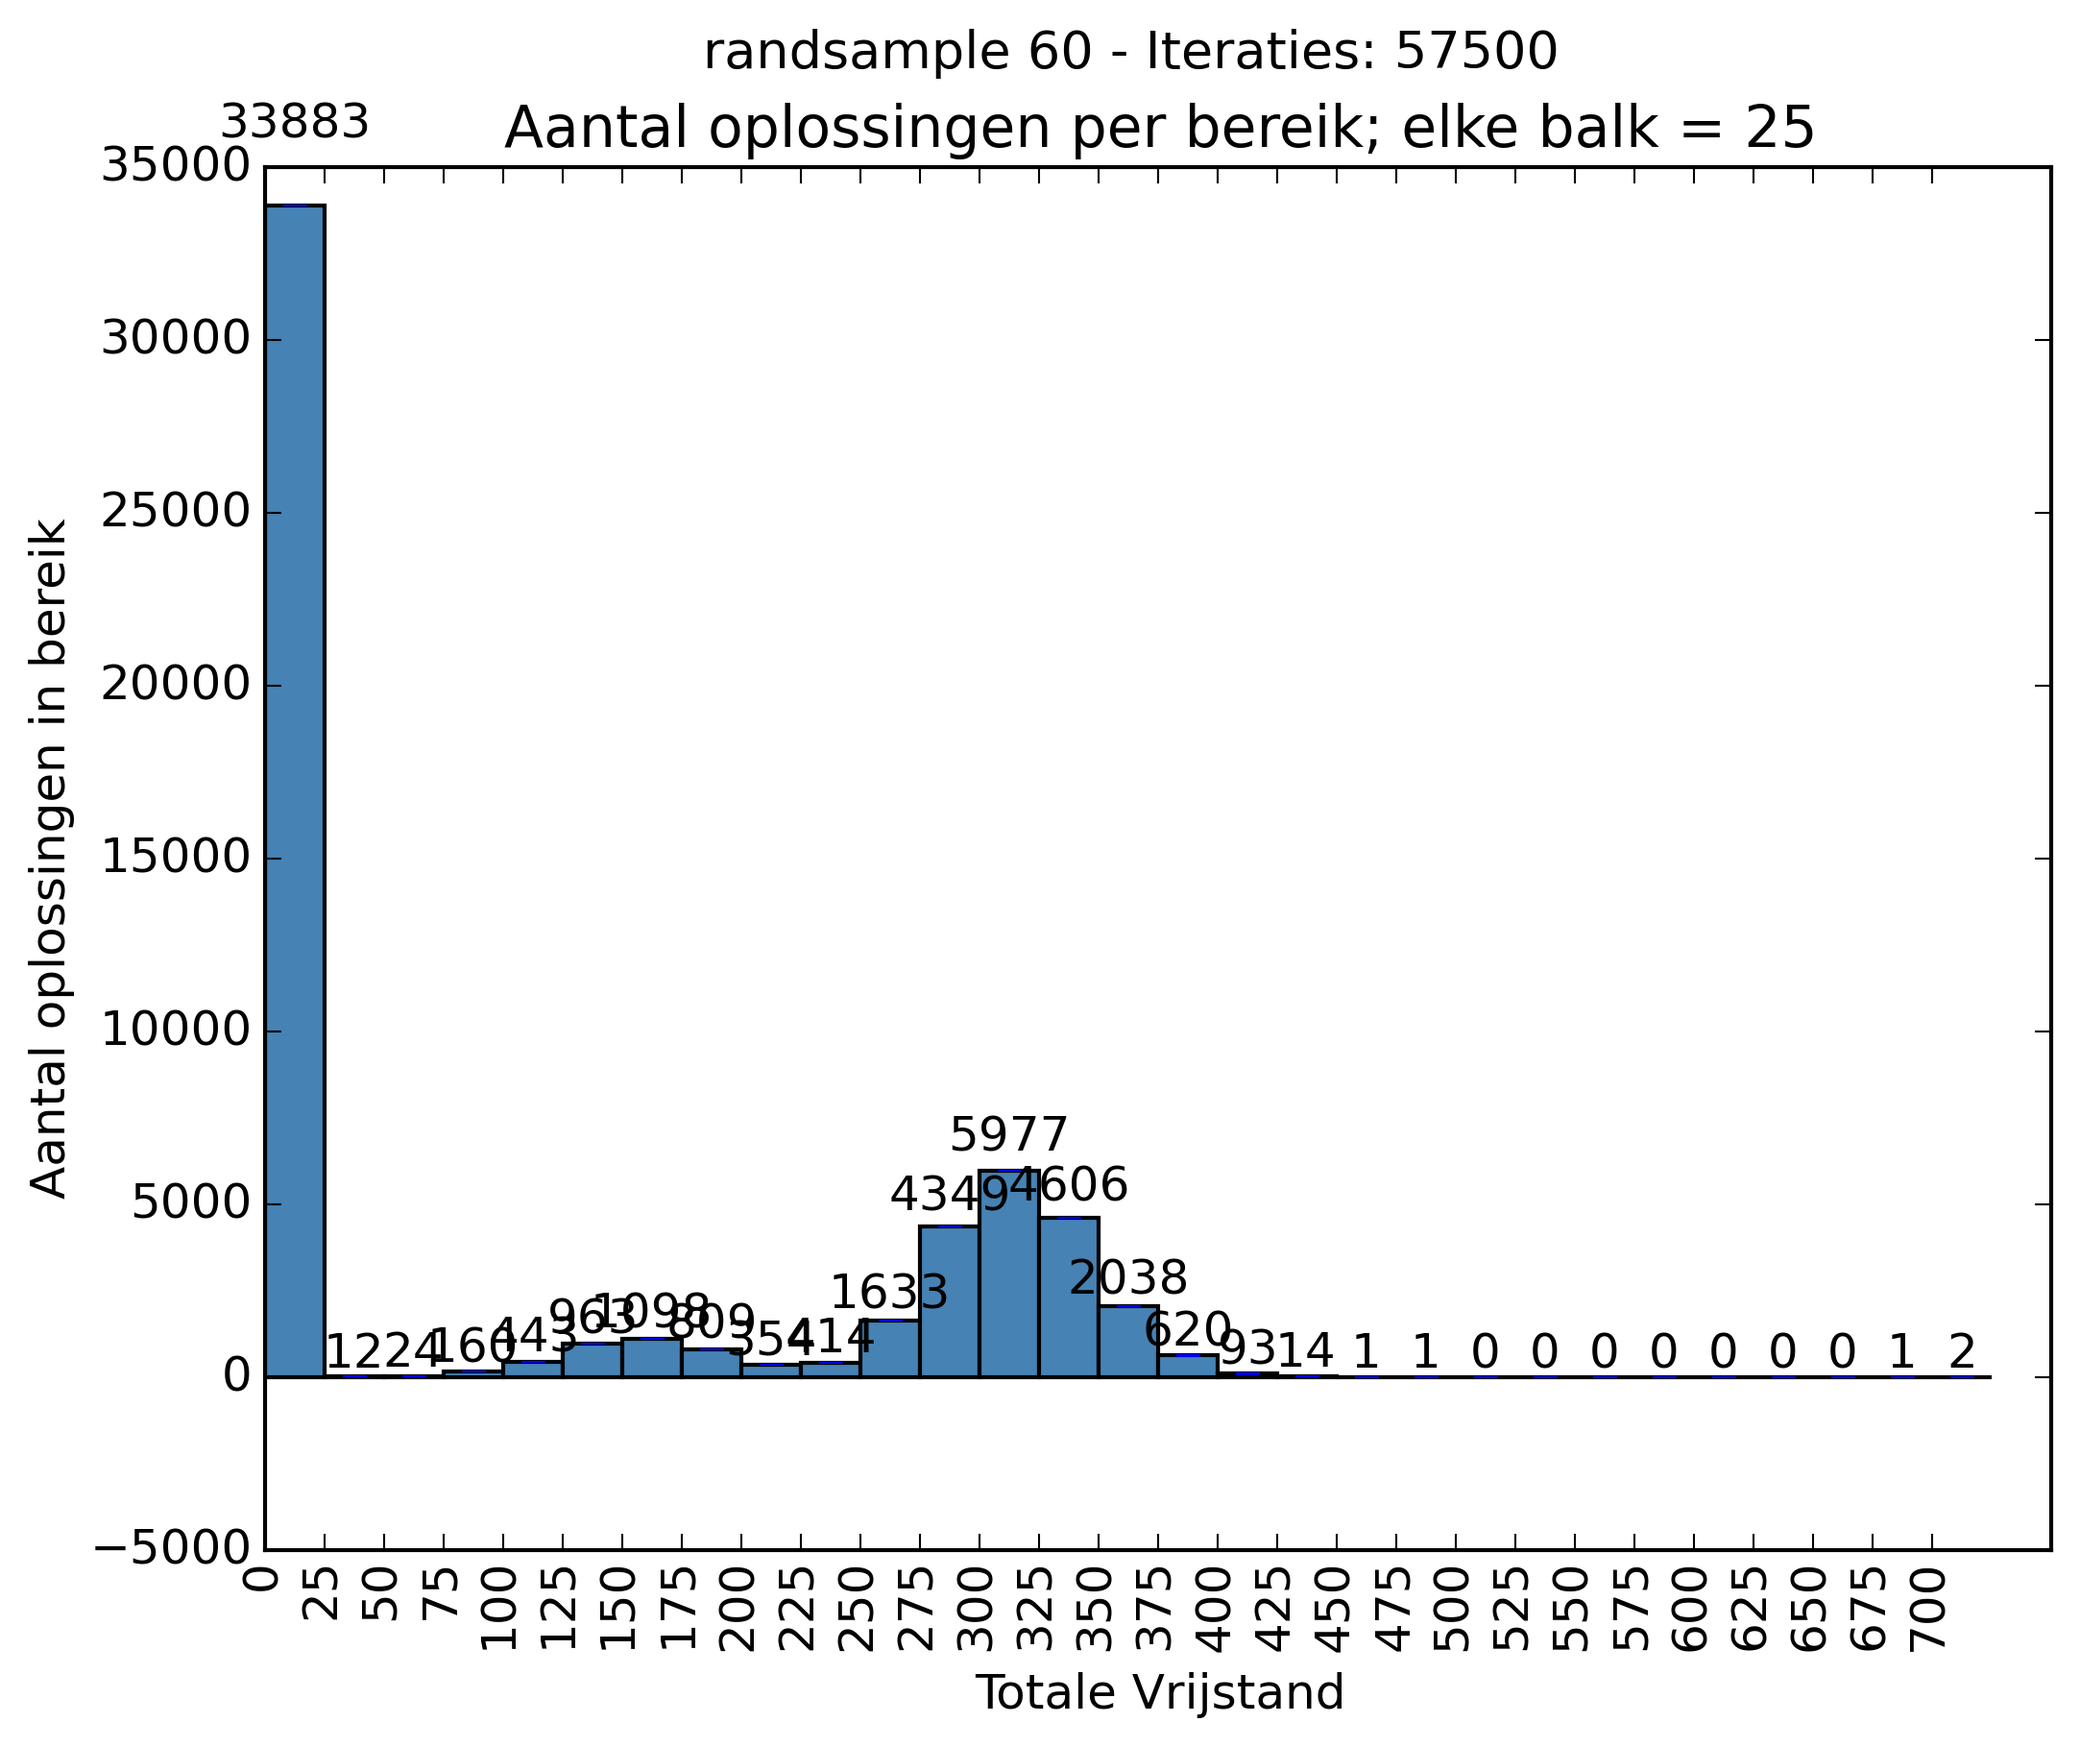
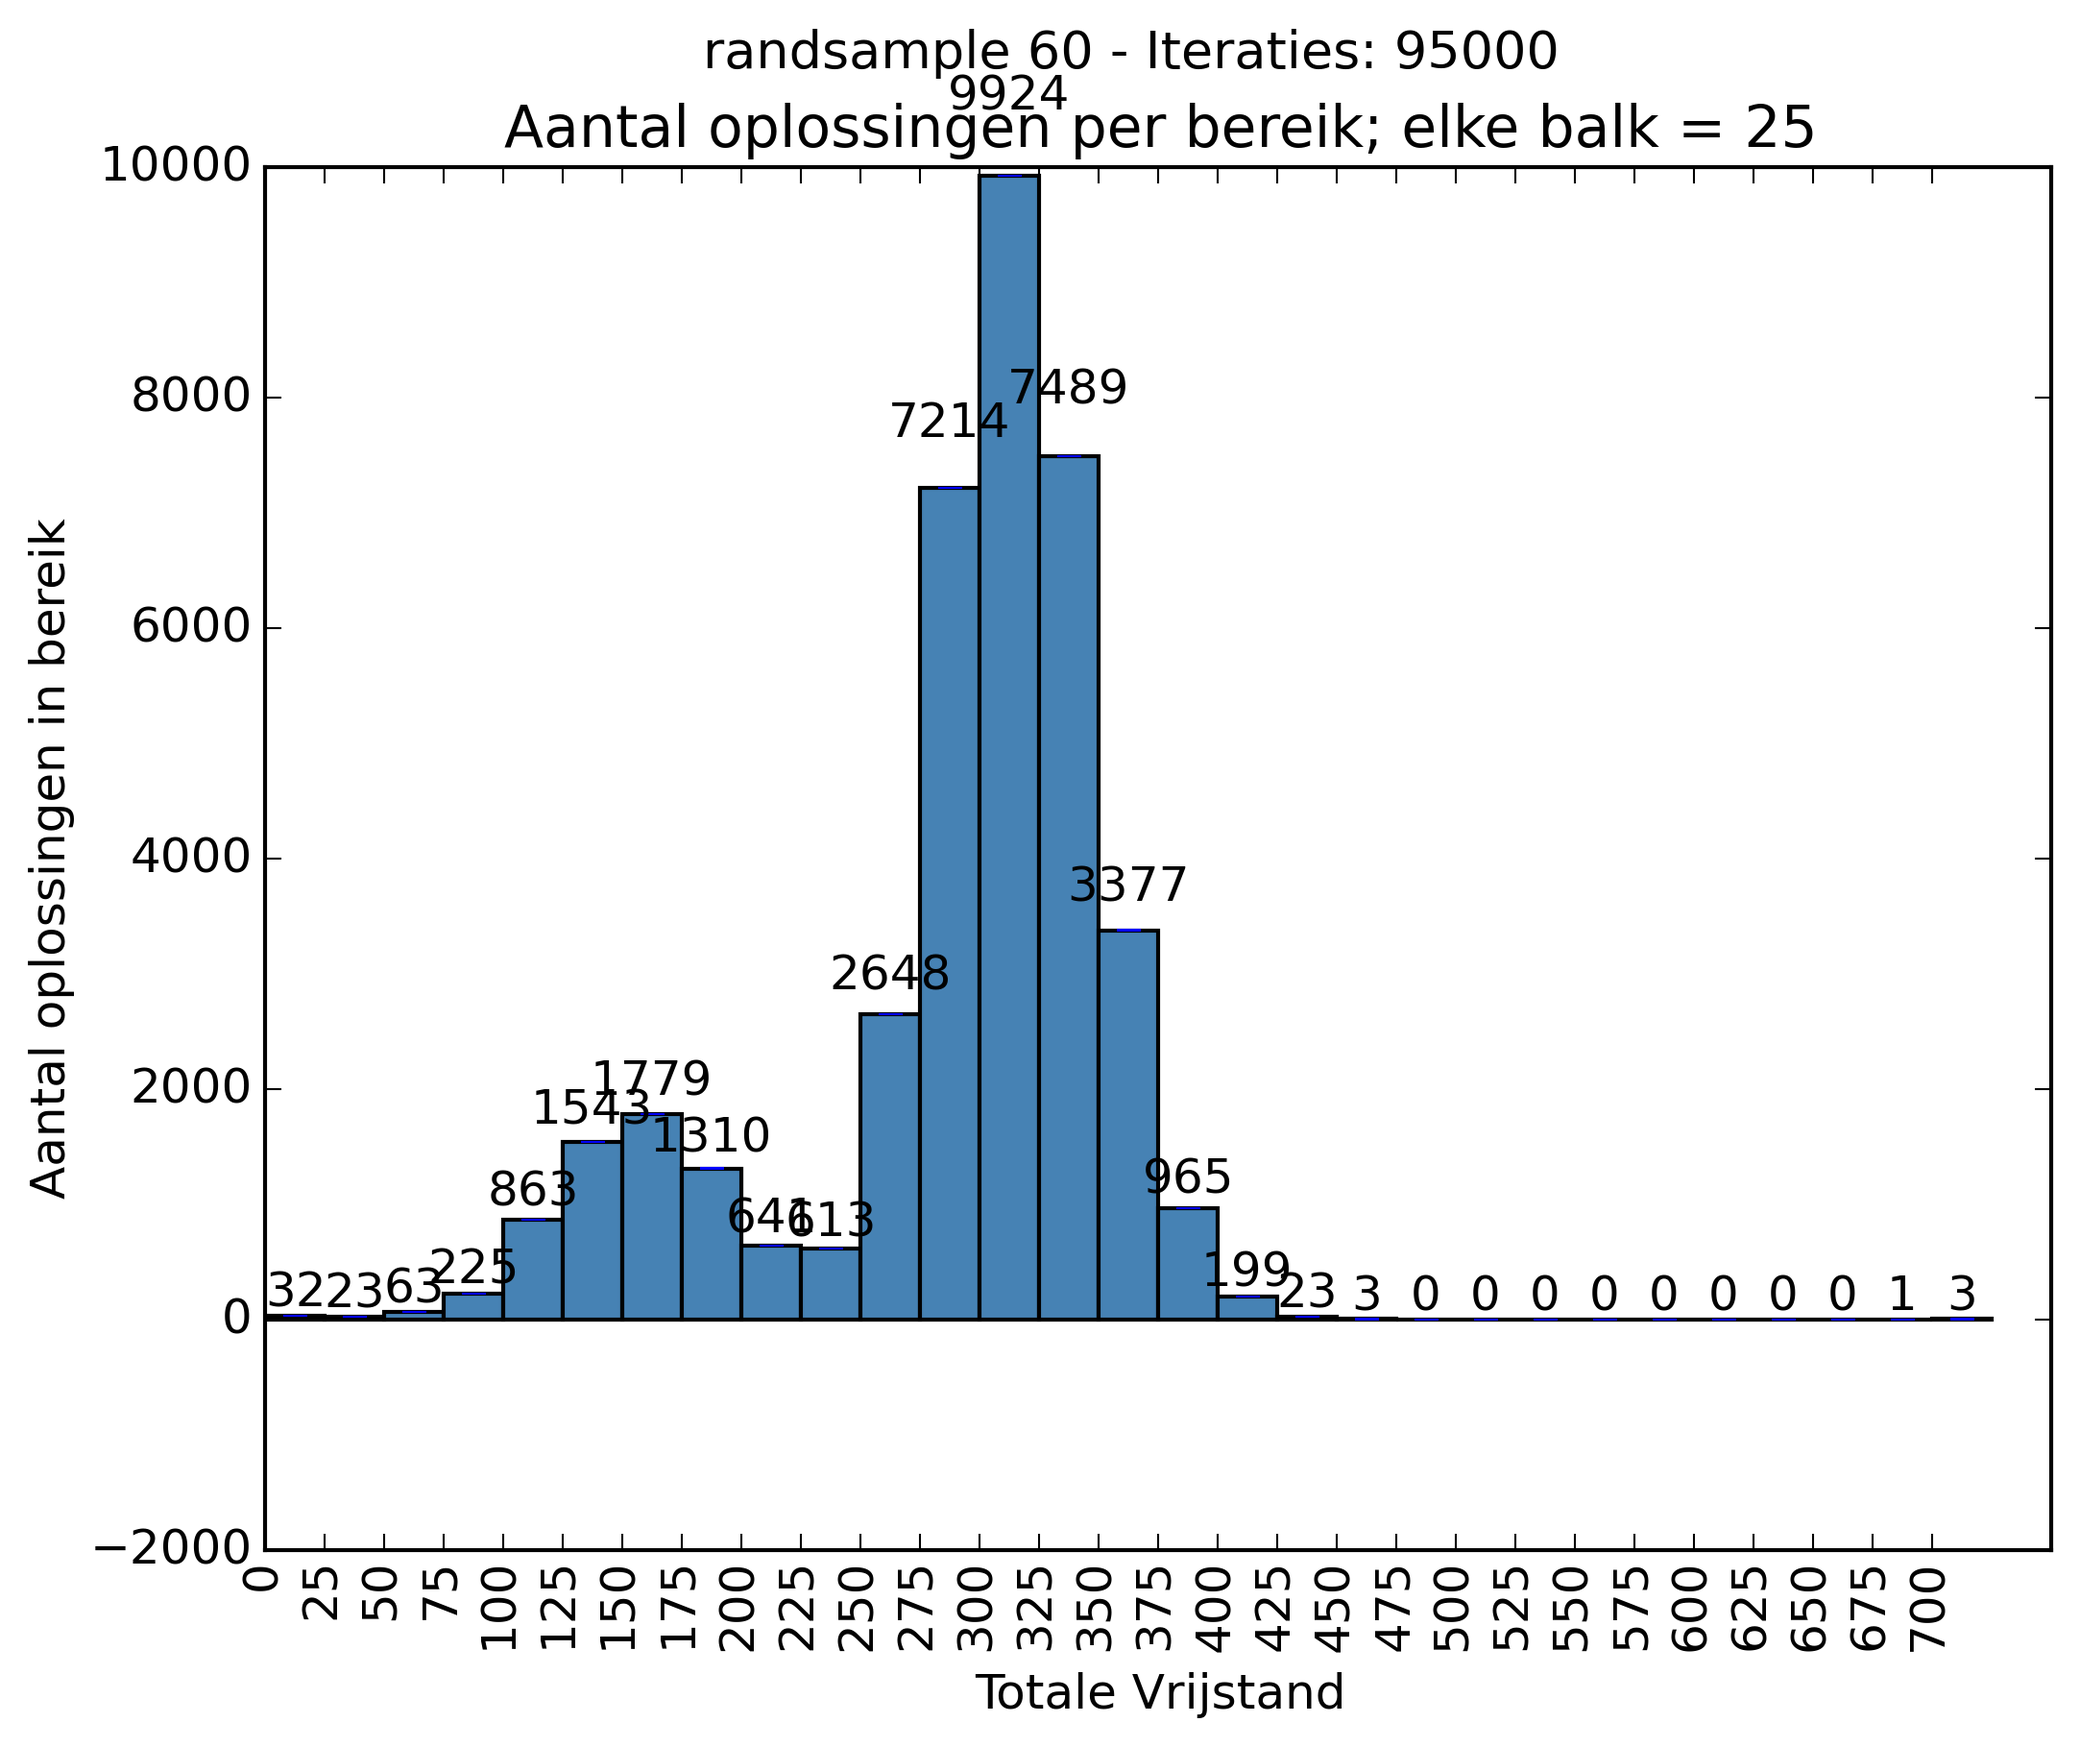
bugfix annealingschuiven60 + toevoegen data

diff --git a/main.py b/main.py
@@ -11,7 +11,6 @@
 #TODO: Alles Runnen:
 #       (Vraag desnoods familie/vrienden of zij het programma kunnen draaien een nachtje)
 #       (Indien nodig kan ik wel een handleiding maken)
-#           Randsample waarde:                                      60(Jordi)
 #           Swappen vrijstand:                      40              60
 #           Swappen waarde:         20(Nu bezig)    40              60
 #           Schuiven+Swappen vrijstand: 20, 40, 60
@@ -300,6 +299,7 @@ elif str(sys.argv[2]) == "annealingschuiven":
     plt.title('Amstelhaege Simulated Annealing Schuiven')
     while True:
         combinatie = createRandom()
+        random.shuffle(combinatie)
         oldcombi = copy.deepcopy(combinatie)
         temperatuur = begintemperatuur
         huidigewaarden = []
